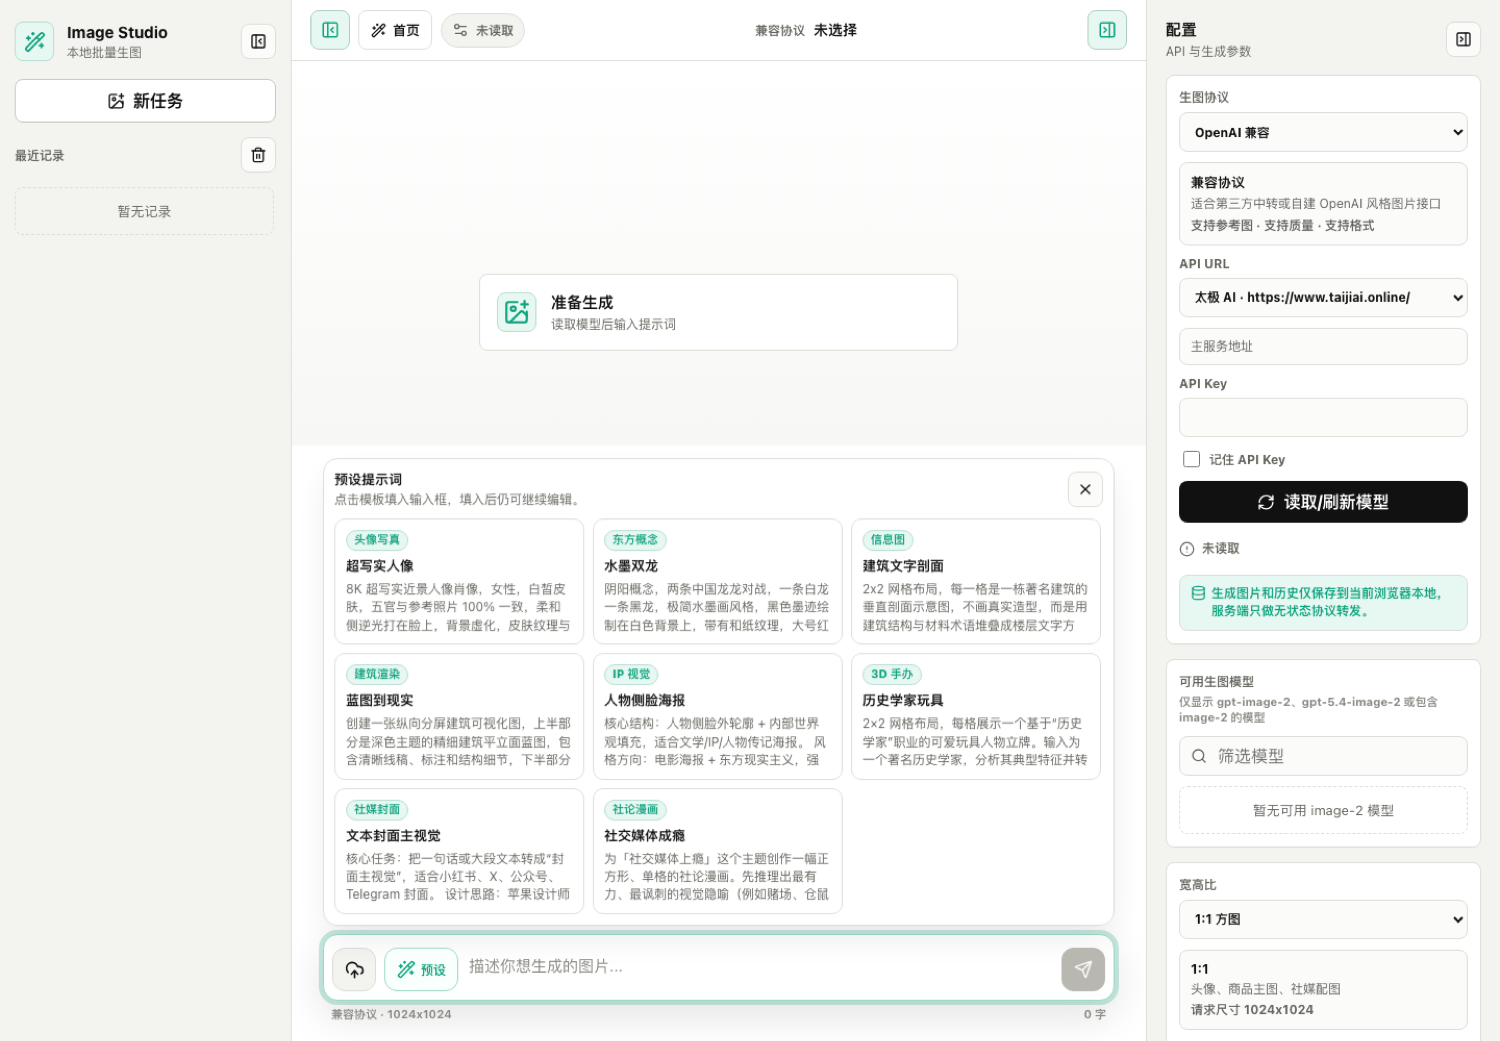
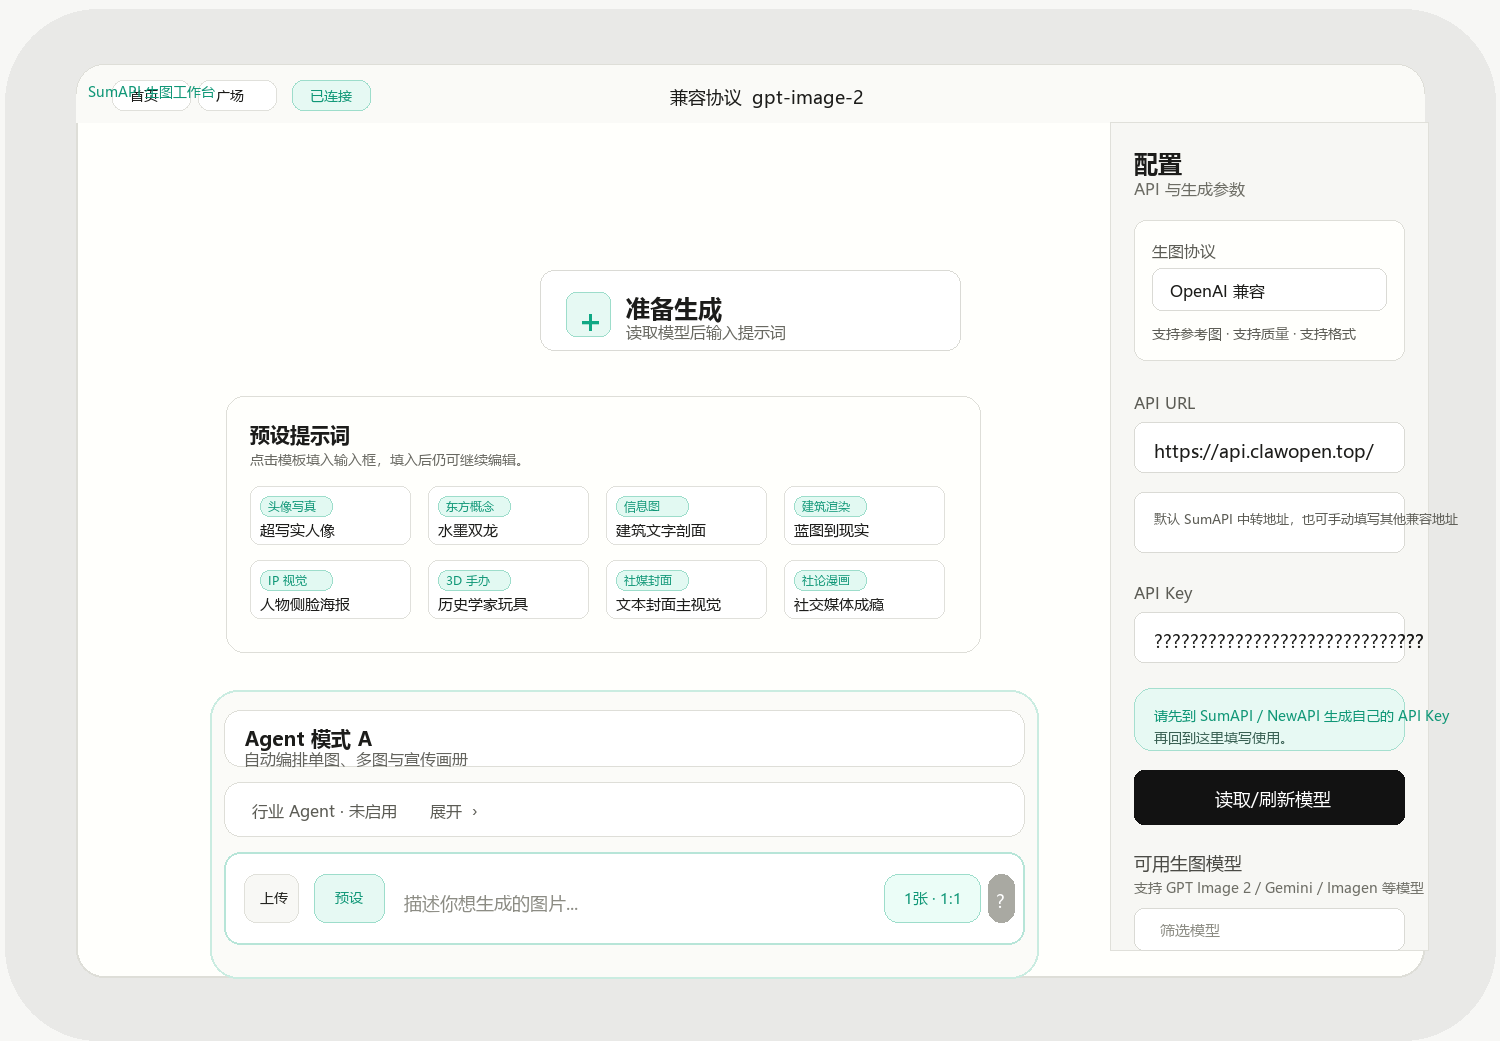
Fix homepage preview and update notice

diff --git a/src/App.tsx b/src/App.tsx
@@ -628,6 +628,7 @@ const LARGE_REFERENCE_EDGE = 4096;
 const PROMPT_TEXTAREA_MAX_HEIGHT = 220;
 const FRONTEND_VERSION_CHECK_INTERVAL_MS = 5 * 60 * 1000;
 const API_KEY_MIN_LENGTH = 8;
+const DISMISSED_FRONTEND_VERSION_KEY = "sumapiDismissedFrontendVersion";
 const AGENT_MODE_STORAGE_KEY = "imageStudioAgentModeEnabled";
 const AGENT_MODE_NAME = "Agent 模式 A";
 const SQUARE_FEED_TABS: Array<{ value: SquareFeedTab; label: string; icon: typeof Clock3 }> = [
@@ -2366,6 +2367,7 @@ function serializeError(detail: ErrorDetail) {
 async function fetchFrontendBuildVersion(signal?: AbortSignal) {
   const response = await fetch(`/build-version.json?t=${Date.now()}`, {
     cache: "no-store",
+    headers: { "Cache-Control": "no-cache" },
     signal,
   });
   if (!response.ok) throw new Error(`版本检查失败：HTTP ${response.status}`);
@@ -2376,7 +2378,8 @@ async function fetchFrontendBuildVersion(signal?: AbortSignal) {
 function reloadWithFrontendVersion(version: string) {
   const nextUrl = new URL(window.location.href);
   nextUrl.searchParams.set("app_v", version);
-  window.location.assign(nextUrl.toString());
+  window.location.replace(nextUrl.toString());
+  window.setTimeout(() => window.location.reload(), 50);
 }
 
 function loadBooleanSetting(key: string, fallback: boolean) {
@@ -3377,7 +3380,10 @@ export default function App() {
     const checkVersion = async () => {
       try {
         const latestVersion = await fetchFrontendBuildVersion(controller.signal);
-        if (!stopped && latestVersion && latestVersion !== CURRENT_FRONTEND_VERSION) {
+        const dismissedVersion = localStorage.getItem(DISMISSED_FRONTEND_VERSION_KEY) || "";
+        if (!stopped && latestVersion && latestVersion === CURRENT_FRONTEND_VERSION) {
+          setAvailableFrontendVersion("");
+        } else if (!stopped && latestVersion && latestVersion !== CURRENT_FRONTEND_VERSION && latestVersion !== dismissedVersion) {
           setAvailableFrontendVersion(latestVersion);
         }
       } catch {
@@ -6077,7 +6083,10 @@ export default function App() {
     <FrontendUpdateNotice
       version={availableFrontendVersion}
       onRefresh={() => reloadWithFrontendVersion(availableFrontendVersion)}
-      onDismiss={() => setAvailableFrontendVersion("")}
+      onDismiss={() => {
+        localStorage.setItem(DISMISSED_FRONTEND_VERSION_KEY, availableFrontendVersion);
+        setAvailableFrontendVersion("");
+      }}
     />
   ) : null;
 

diff --git a/vite.config.ts b/vite.config.ts
@@ -4170,9 +4170,6 @@ function frontendVersionPlugin(): PluginOption {
     configureServer(server: ViteDevServer) {
       registerBuildVersion(server);
     },
-    configurePreviewServer(server: PreviewServer) {
-      registerBuildVersion(server);
-    },
     generateBundle() {
       this.emitFile({
         type: "asset",